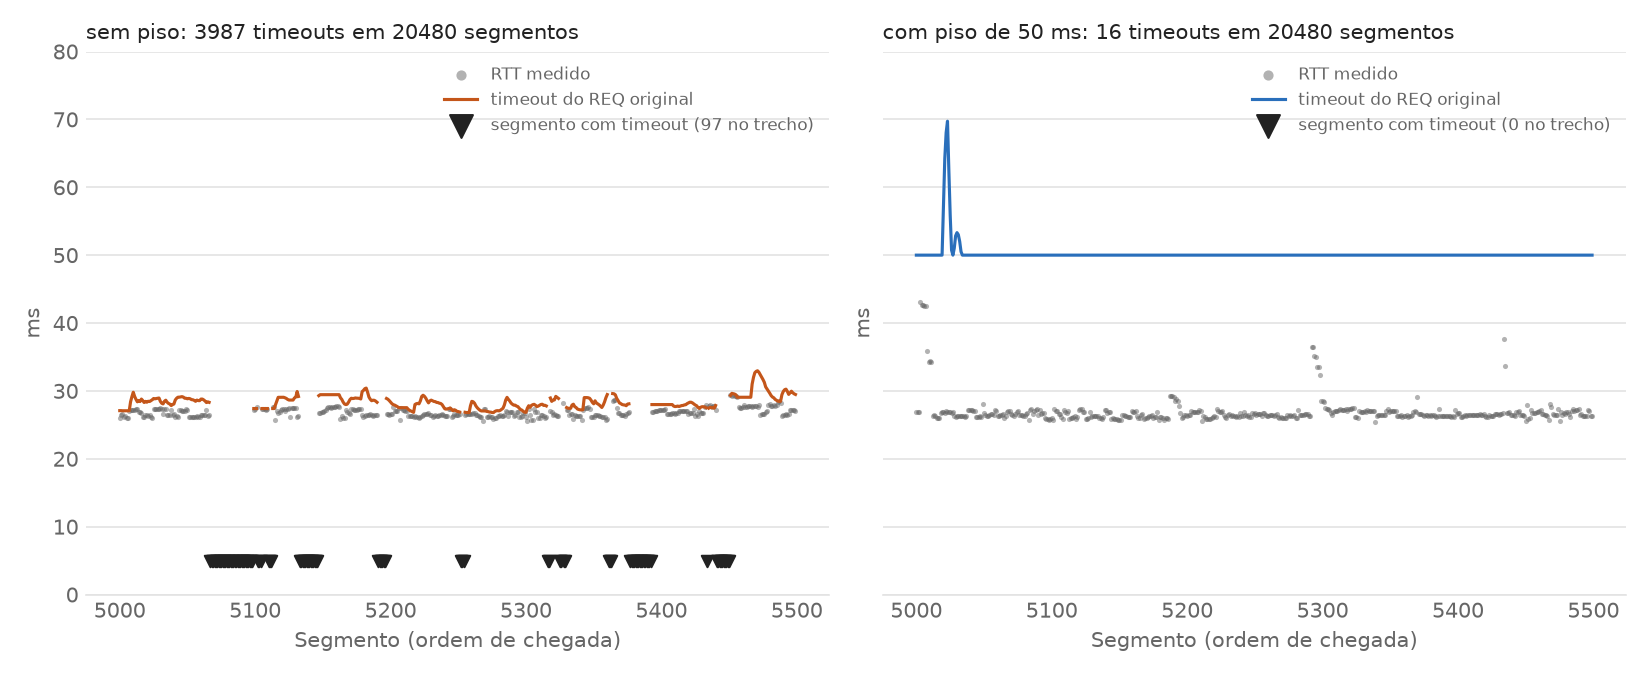
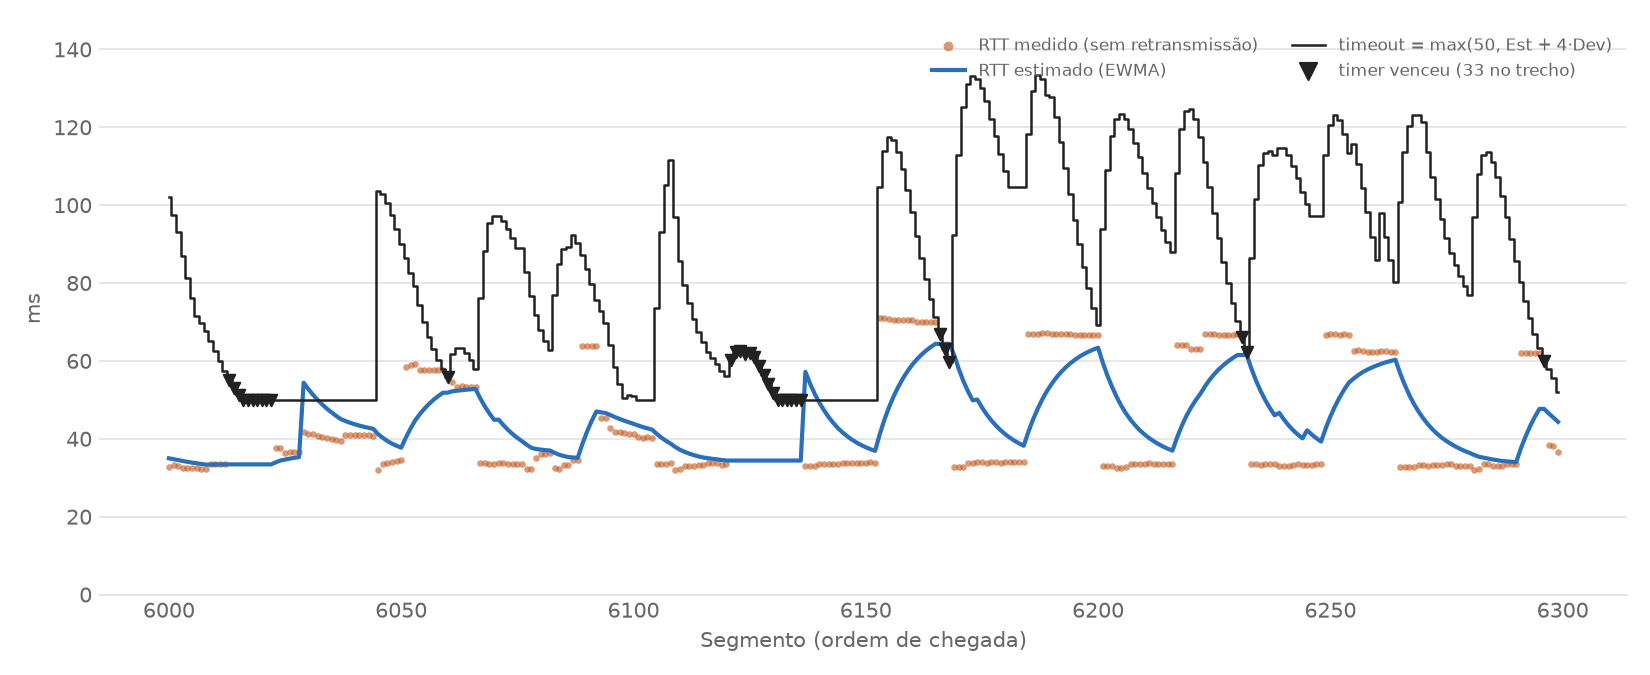
feat: regera os gráficos do relatório com os dados da campanha final

diff --git a/scripts/graph_scripts/plot_timeout.py b/scripts/graph_scripts/plot_timeout.py
@@ -1,13 +1,14 @@
 #!/usr/bin/env python3
-"""Gera os gráficos do timeout adaptativo da Entrega 3.
+"""Gera os gráficos do timeout adaptativo do relatório final.
 
-Uso: python3 scripts/graph_scripts/plot_timeout.py <sem_piso.csv> <com_piso.csv> <pasta_saida>
+Uso: python3 scripts/graph_scripts/plot_timeout.py <metrics.csv> <pasta_saida> [inicio fim]
 
-- rtt_estimado_vs_medido.png: RTT medido, RTT estimado e timeout do REQ
-  original num trecho de ZOOM_EST segmentos da execução com piso.
-- timeout_adaptativo.png: lado a lado, sem piso e com piso, o timeout do
-  primeiro REQ de cada segmento sobre o RTT medido, num trecho de ZOOM
-  segmentos; os triângulos marcam os segmentos que estouraram o timer.
+- rtt_estimado_vs_medido.png: RTT medido e RTT estimado (EWMA) na
+  transferência inteira (em cima) e nos primeiros ZOOM_INICIO segmentos
+  (embaixo), onde o estimador parte da primeira amostra.
+- timeout_adaptativo.png: RTT medido, RTT estimado e timeout do REQ original
+  num trecho [inicio, fim) da transferência; triângulos marcam os segmentos
+  cujo timer venceu.
 
 Os segmentos ficam em ordem de chegada (timestamp), que é a ordem em que o
 estimador foi atualizado.
@@ -24,8 +25,8 @@ import numpy as np
 
 BLUE, ORANGE = "#2a6fbb", "#c4561a"
 INK, MUTED, GRID = "#222222", "#666666", "#e3e3e3"
-ZOOM = (5000, 5500)  # trecho do gráfico lado a lado (ordem de chegada)
-ZOOM_EST = (10200, 10850)  # trecho do RTT estimado: picos do DevRTT e a rajada de timeouts
+ZOOM_INICIO = 200
+ZOOM = (6000, 6300)
 
 
 def load(path):
@@ -36,16 +37,18 @@ def load(path):
     def col(name):
         return np.array([float(r[name]) if r[name] else np.nan for r in rows])
 
+    retx = np.array([int(r["retransmissions"]) for r in rows])
     return {
         "rtt": col("rtt_ms"),
         "est": col("rtt_estimated_ms"),
-        "timeout": col("timeout_ms"),
-        "to": np.array([int(r["timeout_occurred"]) for r in rows], dtype=bool),
-        "retx": np.array([int(r["retransmissions"]) for r in rows]),
+        # O CSV guarda o timer já dobrado pelo backoff; desfaz para obter o
+        # timeout com que o REQ original saiu.
+        "timeout": col("timeout_ms") / 2.0 ** retx,
+        "to": retx > 0,
     }
 
 
-def style(ax, ylabel):
+def style(ax, ylabel="ms"):
     ax.set_ylabel(ylabel, color=MUTED)
     ax.grid(axis="y", color=GRID, linewidth=0.8)
     ax.set_axisbelow(True)
@@ -53,69 +56,57 @@ def style(ax, ylabel):
         ax.spines[s].set_visible(False)
     ax.spines["bottom"].set_color(GRID)
     ax.tick_params(colors=MUTED, length=0)
-    ax.set_xlabel("Segmento (ordem de chegada)", color=MUTED)
 
 
 def plot_estimate(run, out):
-    lo, hi = ZOOM_EST
-    x = np.arange(lo, hi)
-    rtt, est, to = run["rtt"][lo:hi], run["est"][lo:hi], run["to"][lo:hi]
-    # O CSV guarda o timer já dobrado pelo backoff; desfaz para mostrar o
-    # timeout com que o REQ original saiu (o que de fato venceu).
-    first = run["timeout"][lo:hi] / 2.0 ** run["retx"][lo:hi]
+    n = len(run["rtt"])
+    x = np.arange(n)
+    fig, (top, bottom) = plt.subplots(2, 1, figsize=(11, 6.5))
+    top.scatter(x, run["rtt"], s=2, color=ORANGE, alpha=0.25, linewidths=0,
+                label="RTT medido (sem retransmissão)")
+    top.plot(x, run["est"], color=BLUE, linewidth=1.2,
+             label="RTT estimado (EWMA)")
+    style(top)
+    top.set_ylim(0, 100)
+    top.set_title(f"Transferência inteira ({n} segmentos)", color=INK,
+                  fontsize=10, loc="left")
+    top.legend(frameon=False, fontsize=8, labelcolor=MUTED, loc="upper right",
+               markerscale=4)
 
-    fig, ax = plt.subplots(figsize=(11, 4.5))
-    ax.scatter(x, rtt, s=8, color=ORANGE, alpha=0.5, linewidths=0,
-               label="RTT medido (sem retransmissão)")
-    ax.plot(x, est, color=BLUE, linewidth=2, label="RTT estimado (EWMA)")
-    ax.step(x, first, where="mid", color=INK, linewidth=1.2,
-            label="timeout = max(50, Est + 4·Dev)")
-    ax.scatter(x[to], first[to], s=40, marker="v", color=INK, zorder=3,
-               label="REQ cujo timer venceu")
-    style(ax, "ms")
-    ax.set_ylim(0, 80)
-    ax.set_title(f"Segmentos {lo} a {hi} de {len(run['rtt'])} (piso de 50 ms, "
-                 "sem perda): o timeout só sai do piso quando o RTT oscila",
-                 color=INK, fontsize=10, loc="left")
-    if to.any():
-        i = x[to]
-        ax.annotate(f"{to.sum()} REQs da janela venceram juntos:\n"
-                    "a rede segurou os DATA por mais de 50 ms\n"
-                    "(sem RTT medido: Karn descarta a amostra)",
-                    xy=(i.mean(), 50), xytext=(i.mean() - 230, 64),
-                    fontsize=8, color=MUTED,
-                    arrowprops=dict(arrowstyle="-", color=MUTED, lw=0.8))
-    ax.legend(frameon=False, fontsize=8, labelcolor=MUTED, loc="lower right",
-              ncol=4, markerscale=1.5)
+    k = ZOOM_INICIO
+    bottom.plot(x[:k], run["rtt"][:k], "o", ms=3, color=ORANGE, alpha=0.7,
+                label="RTT medido")
+    bottom.plot(x[:k], run["est"][:k], color=BLUE, linewidth=2,
+                label="RTT estimado (EWMA)")
+    style(bottom)
+    bottom.set_xlabel("Segmento (ordem de chegada)", color=MUTED)
+    bottom.set_title(f"Primeiros {k} segmentos: o estimador parte da "
+                     "primeira amostra", color=INK, fontsize=10, loc="left")
+    bottom.legend(frameon=False, fontsize=8, labelcolor=MUTED,
+                  loc="upper right")
     fig.tight_layout()
     fig.savefig(out, dpi=150)
     plt.close(fig)
     print(out)
 
 
-def plot_timeouts(no_floor, floor, out):
-    lo, hi = ZOOM
-    fig, axes = plt.subplots(1, 2, figsize=(11, 4.5), sharey=True)
-    for ax, run, color, title in ((axes[0], no_floor, ORANGE, "sem piso"),
-                                  (axes[1], floor, BLUE, "com piso de 50 ms")):
-        x = np.arange(lo, hi)
-        rtt, to = run["rtt"][lo:hi], run["to"][lo:hi]
-        # Num segmento retransmitido o CSV guarda o timer já dobrado (backoff);
-        # aqui interessa o timeout com que o REQ original saiu.
-        first = np.where(run["retx"][lo:hi] == 0, run["timeout"][lo:hi], np.nan)
-        ax.scatter(x, rtt, s=6, color=MUTED, alpha=0.5, linewidths=0,
-                   label="RTT medido")
-        ax.plot(x, first, color=color, linewidth=1.5,
-                label="timeout do REQ original")
-        ax.scatter(x[to], np.full(to.sum(), 5), s=30, marker="v", color=INK,
-                   label=f"segmento com timeout ({to.sum()} no trecho)")
-        style(ax, "ms")
-        ax.set_title(f"{title}: {run['to'].sum()} timeouts em "
-                     f"{len(run['to'])} segmentos", color=INK, fontsize=10,
-                     loc="left")
-        ax.legend(frameon=False, fontsize=8, labelcolor=MUTED,
-                  loc="upper right", markerscale=2)
-    axes[0].set_ylim(0, 80)
+def plot_timeout(run, lo, hi, out):
+    x = np.arange(lo, hi)
+    rtt, est, to = run["rtt"][lo:hi], run["est"][lo:hi], run["to"][lo:hi]
+    first = run["timeout"][lo:hi]
+    fig, ax = plt.subplots(figsize=(11, 4.5))
+    ax.scatter(x, rtt, s=10, color=ORANGE, alpha=0.6, linewidths=0,
+               label="RTT medido (sem retransmissão)")
+    ax.plot(x, est, color=BLUE, linewidth=2, label="RTT estimado (EWMA)")
+    ax.step(x, first, where="mid", color=INK, linewidth=1.2,
+            label="timeout = max(50, Est + 4·Dev)")
+    ax.scatter(x[to], first[to], s=30, marker="v", color=INK, zorder=3,
+               label=f"timer venceu ({to.sum()} no trecho)")
+    style(ax)
+    ax.set_xlabel("Segmento (ordem de chegada)", color=MUTED)
+    ax.set_ylim(0, max(100, np.nanmax(first) * 1.1))
+    ax.legend(frameon=False, fontsize=8, labelcolor=MUTED, loc="upper right",
+              ncol=2, markerscale=1.5)
     fig.tight_layout()
     fig.savefig(out, dpi=150)
     plt.close(fig)
@@ -123,13 +114,14 @@ def plot_timeouts(no_floor, floor, out):
 
 
 def main():
-    if len(sys.argv) != 4:
+    if len(sys.argv) not in (3, 5):
         sys.exit(__doc__)
-    no_floor, floor = load(sys.argv[1]), load(sys.argv[2])
-    out_dir = Path(sys.argv[3])
+    run = load(sys.argv[1])
+    out_dir = Path(sys.argv[2])
     out_dir.mkdir(parents=True, exist_ok=True)
-    plot_estimate(floor, out_dir / "rtt_estimado_vs_medido.png")
-    plot_timeouts(no_floor, floor, out_dir / "timeout_adaptativo.png")
+    lo, hi = (int(sys.argv[3]), int(sys.argv[4])) if len(sys.argv) == 5 else ZOOM
+    plot_estimate(run, out_dir / "rtt_estimado_vs_medido.png")
+    plot_timeout(run, lo, hi, out_dir / "timeout_adaptativo.png")
 
 
 if __name__ == "__main__":

diff --git a/scripts/graph_scripts/plot_visao_integrada.py b/scripts/graph_scripts/plot_visao_integrada.py
@@ -1,0 +1,77 @@
+#!/usr/bin/env python3
+"""Gera o gráfico da visão integrada (throughput médio, arquivo large, sem perda).
+
+Uso: python3 scripts/graph_scripts/plot_visao_integrada.py <saida.png>
+
+Uma barra por linha da tabela consolidada do relatório final, todas da
+campanha em results/final (execucoes.csv). O throughput é recalculado do CSV
+de cada execução (summarize_metrics).
+"""
+import csv
+import sys
+from pathlib import Path
+
+import matplotlib
+matplotlib.use("Agg")
+import matplotlib.pyplot as plt
+
+ROOT = Path(__file__).resolve().parents[2]
+sys.path.insert(0, str(ROOT))
+from src.metrics import summarize_metrics  # noqa: E402
+
+GREEN, BLUE, ORANGE = "#1a9e77", "#2a6fbb", "#c4561a"   # SAW, GBN, SR
+INK, MUTED, GRID = "#222222", "#666666", "#e3e3e3"
+
+# (rótulo, cor, adaptativo, id da execução em results/final/execucoes.csv)
+BARS = [
+    ("SAW\nfixo 1 s", GREEN, False, "saw_large_p00"),
+    ("GBN (N=16)\nfixo 1 s", BLUE, False, "gbn_fixo_p00"),
+    ("SR (N=16)\nfixo 1 s", ORANGE, False, "sr_fixo_p00"),
+    ("SR (N=16)\nadaptativo", ORANGE, True, "sr_adapt_p00"),
+]
+
+
+def throughput(run_id):
+    with open(ROOT / "results/final/execucoes.csv", newline="",
+              encoding="utf-8") as f:
+        runs = {r["id"]: r for r in csv.DictReader(f)}
+    return summarize_metrics(str(ROOT / runs[run_id]["csv"]))["throughput_kbps"]
+
+
+def main():
+    if len(sys.argv) != 2:
+        sys.exit(__doc__)
+    out = Path(sys.argv[1])
+    values = [throughput(src) for *_, src in BARS]
+
+    fig, ax = plt.subplots(figsize=(8, 4.5))
+    x = range(len(BARS))
+    for i, ((label, color, adaptive, _), v) in enumerate(zip(BARS, values)):
+        ax.bar(i, v, width=0.68, color="white" if adaptive else color,
+               edgecolor=color, hatch="///" if adaptive else None,
+               linewidth=1.5 if adaptive else 0)
+        ax.text(i, v + 40, f"{v:,.1f}".replace(",", " ").replace(".", ","),
+                ha="center", va="bottom", fontsize=9, color=INK)
+
+    ax.set_xticks(list(x), [b[0] for b in BARS], fontsize=9, color=MUTED)
+    ax.set_ylabel("throughput médio (kbit/s)", color=MUTED)
+    ax.set_ylim(0, max(values) * 1.12)
+    ax.grid(axis="y", color=GRID, linewidth=0.8)
+    ax.set_axisbelow(True)
+    for s in ("top", "right", "left"):
+        ax.spines[s].set_visible(False)
+    ax.spines["bottom"].set_color(GRID)
+    ax.tick_params(colors=MUTED, length=0)
+    ax.set_title("Arquivo large, sem perda simulada (hachurado: timeout adaptativo)",
+                 color=INK, fontsize=10, loc="left")
+    fig.tight_layout()
+    out.parent.mkdir(parents=True, exist_ok=True)
+    fig.savefig(out, dpi=150)
+    plt.close(fig)
+    for (label, *_), v in zip(BARS, values):
+        print(f"{label.replace(chr(10), ' '):28} {v:8.1f} kbit/s")
+    print(out)
+
+
+if __name__ == "__main__":
+    main()
